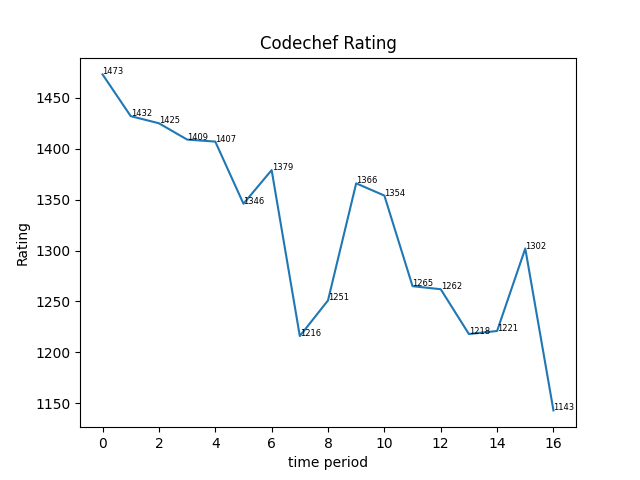
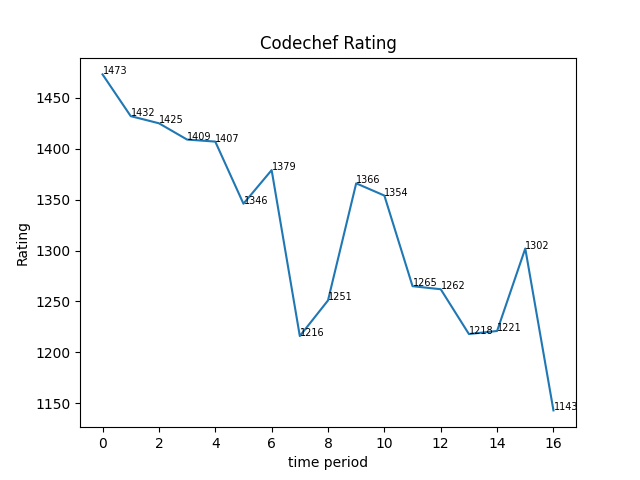
reminder done

diff --git a/RIC.py b/RIC.py
@@ -8,6 +8,81 @@ import asyncio
 import random
 import numpy as np
 import matplotlib.pyplot as plt
+from asyncio import sleep as s
+from datetime import datetime, time, timedelta, date
+channel_id = 861613962508369934
+
+
+def get_contest_date():
+    URL_codeforces = "https://kontests.net/api/v1/codeforces"
+    URL_codechef = "https://kontests.net/api/v1/code_chef"
+    URL_leetcode = "https://kontests.net/api/v1/leet_code"
+
+    # sending get request and saving the response as response object
+    request_codeforces = requests.get(url=URL_codeforces)
+    request_codechef = requests.get(url=URL_codechef)
+    request_leetcode = requests.get(url=URL_leetcode)
+
+    # extracting data in json format
+    data_codeforces = request_codeforces.json()
+    data_codechef = request_codechef.json()
+    data_leetcode = request_leetcode.json()
+    data_codechef.reverse()
+    data_leetcode.reverse()
+    date_codeforces = data_codeforces[0]['start_time'].split('T')
+    date_leetcode = data_leetcode[0]['start_time'].split('T')
+    date_codechef = data_codechef[0]['start_time'].split(" ")
+    return [[date_codeforces[0], date_codeforces[1][0:8:], data_codeforces[0], 1],
+            [date_leetcode[0], date_leetcode[1][0:8:], data_leetcode[0], 1],
+            [date_codechef[0], date_codechef[1], data_codechef[0], 0]]
+
+
+async def called_once_a_day(contest, flag):  # Fired every day
+    await client.wait_until_ready()  # Make sure your guild cache is ready so the channel can be found via get_channel
+    channel = client.get_channel(
+        channel_id)  # Note: It's more efficient to do bot.get_guild(guild_id).get_channel(channel_id) as there's less looping involved, but just get_channel still works fine
+    if flag == 1:
+        date = contest['start_time'].split('T')[0]
+        time = contest['start_time'].split('T')[1]
+        l = [contest['name'], str(
+            date.split('-')[2] + "/" + date.split('-')[1] + "/" + date.split('-')[0] + " at " + str(
+                int(time[0:2:1]) + 6) + ":00")]
+        await channel.send(embed=discord.Embed(title=f'**Upcomming contest**',
+                                               description=f':trophy:  **Name**: {l[0]}\n\n \t :clock8:  **Date**: {l[1]}\n\n\n'))
+
+    else:
+        date = contest['start_time'].split(' ')[0]
+        time = contest['start_time'].split(' ')[1]
+        l = [contest['name'], str(
+            date.split('-')[2] + "/" + date.split('-')[1] + "/" + date.split('-')[0] + " at " + str(
+                int(time[0:2:1]) + 6) + ":00")]
+        await channel.send(embed=discord.Embed(title=f'**Upcomming Contest Today**',
+                                               description=f':trophy:  **Name**: {l[0]}\n\n \t :clock8:  **Date**: {l[1]}\n\n\n'))
+
+
+async def background_task():
+    # now = datetime.utcnow()
+    for contest in get_contest_date():
+        if contest[0] == date.today():
+            if contest[3] == 1:
+                await called_once_a_day(contest[2], 1)
+            else:
+                await called_once_a_day(contest[2], 0)
+
+    # if now.time() > WHEN:  # Make sure loop doesn't start after {WHEN} as then it will send immediately the first time as negative seconds will make the sleep yield instantly
+    #     tomorrow = datetime.combine(now.date() + timedelta(days=1), time(0))
+    #     seconds = (tomorrow - now).total_seconds()  # Seconds until tomorrow (midnight)
+    #     await asyncio.sleep(seconds)  # Sleep until tomorrow and then the loop will start
+    # while True:
+    #     now = datetime.utcnow()  # You can do now() or a specific timezone if that matters, but I'll leave it with utcnow
+    #     target_time = datetime.combine(now.date(), WHEN)  # 6:00 PM today (In UTC)
+    #     seconds_until_target = (target_time - now).total_seconds()
+    #     await asyncio.sleep(seconds_until_target)  # Sleep until we hit the target time
+    #     await called_once_a_day()  # Call the helper function that sends the message
+    #     tomorrow = datetime.combine(now.date() + timedelta(days=1), time(0))
+    #     seconds = (tomorrow - now).total_seconds()  # Seconds until tomorrow (midnight)
+    #     await asyncio.sleep(seconds)  # Sleep until tomorrow and then the loop will start a new iteration
+
 
 client = commands.Bot(command_prefix='.')
 
@@ -16,6 +91,7 @@ client = commands.Bot(command_prefix='.')
 @client.event
 async def on_ready():
     print('We have logged in as {0.user}'.format(client))
+    # print(get_contest_date())
 
 
 # HELP COMMAND
@@ -25,7 +101,7 @@ async def on_ready():
 async def my_help(ctx):
     help_message = discord.Embed(
         title="**CPMC Discord Bot :robot:**",
-        description='\n :loudspeaker:** Commands: ** \n\n :trophy:  **.contests :** for upcomming contests \n\n :person_bouncing_ball:  **.cf <username> :** for codeforces info of handle\n\n:person_bouncing_ball:  **.lc <username> :** for leetcode info of handle \n\n:person_bouncing_ball:  **.cc <username> :** for codechef info of handle \n\n:person_bouncing_ball:  **.randQ <difficulty_level> :** for random lc question \n\n :person_bouncing_ball:  **.randtag <tag> :** for random cf ques \n\n**Thank you for using my services :smiley:**',
+        description='\n :loudspeaker:** Commands: ** \n\n :trophy:  **.contests :** for upcomming contests \n\n :person_bouncing_ball:  **.rating <platform> <username> :** for rating info of handle \n\n\t platform options: \n\n\t\tcf for codeforces \n\n\t\tcc for codechef \n\n\t\tlc for leetcode \n\n:person_bouncing_ball: **.graph <platform> <username>** \n\nplatform options: \n\n\t\tcf for codeforces \n\n\t\tcc for codechef\n\n:person_bouncing_ball:  **.rq <difficulty_level> :** for random lc question \n\n :person_bouncing_ball:  **.rt <tag> :** for random codeforces questions with tag \n\n**Thank you for using my services :smiley:**',
         color=0xFFA500
     )
     await ctx.reply(embed=help_message)
@@ -54,7 +130,7 @@ def destructure_codeforces_leetcode(contest):
     time = contest['start_time'].split('T')[1]
     return [contest['name'],
             str(date.split('-')[2] + "/" + date.split('-')[1] + "/" + date.split('-')[0] + " at " + str(
-                int(time[0:2:1]) + 6) + ":05")]
+                int(time[0:2:1]) + 6) + ":00")]
 
 
 def destructure_codechef(contest):
@@ -76,14 +152,14 @@ leetcode_display_list = list(
 leetcode_display_list.reverse()
 
 display_list = codeforces_display_list[0:2:] + \
-    codechef_display_list[0:2:] + leetcode_display_list[0:2:]
+               codechef_display_list[0:2:] + leetcode_display_list[0:2:]
 
 
 def display(display_list):
     dis = ''
     for contest in display_list:
         dis = dis + \
-            f':trophy:  **Name**: {contest[0]}\n\n \t :clock8:  **Date**: {contest[1]}\n\n\n'
+              f':trophy:  **Name**: {contest[0]}\n\n \t :clock8:  **Date**: {contest[1]}\n\n\n'
     dis += '**Thank you for using my services :smiley:**\n\n'
     message = discord.Embed(
         title='\n**Upcoming Contests:**\n\n',
@@ -98,72 +174,64 @@ async def contest(ctx):
     await ctx.reply(embed=display(display_list))
 
 
-# CF COMMAND FOR CODEFORCES
-# GET USERINFO
-# REPLY IN DM
-@client.command(name='cf')
-async def userInfo(ctx, name):
-    async with aiohttp.ClientSession() as session:
-        async with session.get('https://contest-details.herokuapp.com/api/codeforces/{}'.format(name)) as response:
-            data = await response.json()
-            # print(data)
-            if 'rating' in data:
-                rating = data['rating'] if 'rating' in data else '\t'
-                rank = data['rank'] if 'rank' in data else '\t'
-                maxrt = data['max rating'] if 'max rating' in data else '\t'
-                m = discord.Embed(
-                    title='this is your info for codeforces',
-                    description=f'**Request for** : \t{name}\n\n**Last Rating :** \t{rating}\n\n**Rank :** \t{rank}\n\n**Max Rating :** \t{maxrt}\n\n**Thank you for using my services :smiley:**\n\n',
-                    color=discord.Colour.red())
-                await ctx.message.author.send(embed=m)
-                await ctx.reply('**Info was successfully sent to you!!**')
-            else:
-                await ctx.reply('**400 Player Not found or contests not given**')
+@client.command(name='rating')
+async def rating(ctx, platform, name):
+    if platform == 'cf':
+        async with aiohttp.ClientSession() as session:
+            async with session.get('https://contest-details.herokuapp.com/api/codeforces/{}'.format(name)) as response:
+                data = await response.json()
 
-
-# LC COMMAND FOR LEETCODE
-@client.command(name='lc')
-async def userInfo(ctx, name):
-    async with aiohttp.ClientSession() as session:
-        async with session.get('https://competitive-coding-api.herokuapp.com/api/leetcode/{}'.format(name)) as response:
-            data = await response.json()
-            if 'ranking' in data:
-                ranking = data['ranking'] if 'ranking' in data else '\t'
-                problems = data['total_problems_solved'] if 'total_problems_solved' in data else '\t'
-                points = data['contribution_points'] if 'contribution_points' in data else '\t'
-                rep = data['reputation'] if 'reputation' in data else '\t'
-                m = discord.Embed(
-                    title='this is your info for leetcode',
-                    description=f'**Request for** : \t{name}\n\n**Rank :** \t{ranking}\n\n**Problems Solved :** \t{problems}\n\n**Total Points :** \t{points}\n\n**Reputation :** \t{rep}\n\n**Thank you for using my services :smiley:**\n\n',
-                    color=0xffffff)
-                await ctx.message.author.send(embed=m)
-                await ctx.reply('**Info was successfully sent to you!!**')
-            else:
-                await ctx.reply('**400 Player Not found or contests not given**')
-
-
-# CC COMMAND FOR CODECHEF
-@client.command(name='cc')
-async def userInfo(ctx, name):
-    async with aiohttp.ClientSession() as session:
-        async with session.get('https://contest-details.herokuapp.com/api/codechef/{}'.format(name)) as response:
-            data = await response.json()
-            print(data)
-            if 'div' in data:
-                ranking = data['country rank'] if 'country rank' in data else '\t'
-                problems = data['problem solved'] if 'problem solved' in data else '\t'
-                div = data['div'] if 'div' in data else '\t'
-                stars = data['stars'] if 'stars' in data else '\t'
-                maxRt = data['max rating'] if 'max rating' in data else '\t'
-                current = data['rating'] if 'rating' in data else '\t'
-                m = discord.Embed(
-                    title='this is your info for codechef',
-                    description=f'**Request for** : \t{name}\n\n**Rank :** \t{ranking}\n\n**Div :** \t{div}\n\n**Stars :** \t{stars}\n\n**Rating :** \t{current}\n\n**Max Rating :** \t{maxRt}\n\n**Problems Solved :** \t{problems}\n\n**Thank you for using my services :smiley:**\n\n',
-                    color=discord.Colour.green())
-                await ctx.message.author.send(embed=m)
-                await ctx.reply('**Info was successfully sent to you!!**')
-            else:
-                await ctx.reply('**400 Player Not found or contests not given**')
+                if 'rating' in data:
+                    rating = data['rating'] if 'rating' in data else '\t'
+                    rank = data['rank'] if 'rank' in data else '\t'
+                    maxrt = data['max rating'] if 'max rating' in data else '\t'
+                    m = discord.Embed(
+                        title='this is your info for codeforces',
+                        description=f'**Request for** : \t{name}\n\n**Last Rating :** \t{rating}\n\n**Rank :** \t{rank}\n\n**Max Rating :** \t{maxrt}\n\n**Thank you for using my services :smiley:**\n\n',
+                        color=discord.Colour.red())
+                    await ctx.message.author.send(embed=m)
+                    await ctx.reply('**Info was successfully sent to you!!**')
+                else:
+                    await ctx.reply('**400 Player Not found or contests not given**')
+    elif platform == 'cc':
+        async with aiohttp.ClientSession() as session:
+            async with session.get('https://contest-details.herokuapp.com/api/codechef/{}'.format(name)) as response:
+                data = await response.json()
+                if 'div' in data:
+                    ranking = data['country rank'] if 'country rank' in data else '\t'
+                    problems = data['problem solved'] if 'problem solved' in data else '\t'
+                    div = data['div'] if 'div' in data else '\t'
+                    stars = data['stars'] if 'stars' in data else '\t'
+                    maxRt = data['max rating'] if 'max rating' in data else '\t'
+                    current = data['rating'] if 'rating' in data else '\t'
+                    m = discord.Embed(
+                        title='this is your info for codechef',
+                        description=f'**Request for** : \t{name}\n\n**Rank :** \t{ranking}\n\n**Div :** \t{div}\n\n**Stars :** \t{stars}\n\n**Rating :** \t{current}\n\n**Max Rating :** \t{maxRt}\n\n**Problems Solved :** \t{problems}\n\n**Thank you for using my services :smiley:**\n\n',
+                        color=discord.Colour.green())
+                    await ctx.message.author.send(embed=m)
+                    await ctx.reply('**Info was successfully sent to you!!**')
+                else:
+                    await ctx.reply('**400 Player Not found or contests not given**')
+    elif platform == 'lc':
+        async with aiohttp.ClientSession() as session:
+            async with session.get(
+                    'https://competitive-coding-api.herokuapp.com/api/leetcode/{}'.format(name)) as response:
+                data = await response.json()
+                if 'ranking' in data:
+                    ranking = data['ranking'] if 'ranking' in data else '\t'
+                    problems = data['total_problems_solved'] if 'total_problems_solved' in data else '\t'
+                    points = data['contribution_points'] if 'contribution_points' in data else '\t'
+                    rep = data['reputation'] if 'reputation' in data else '\t'
+                    m = discord.Embed(
+                        title='this is your info for leetcode',
+                        description=f'**Request for** : \t{name}\n\n**Rank :** \t{ranking}\n\n**Problems Solved :** \t{problems}\n\n**Total Points :** \t{points}\n\n**Reputation :** \t{rep}\n\n**Thank you for using my services :smiley:**\n\n',
+                        color=0xffffff)
+                    await ctx.message.author.send(embed=m)
+                    await ctx.reply('**Info was successfully sent to you!!**')
+                else:
+                    await ctx.reply('**400 Player Not found or contests not given**')
+    else:
+        await ctx.reply('**Enter valid platform**')
 
 
 # RANDOM QUESTION
@@ -210,13 +278,21 @@ async def rand_question_tag(ctx, tag):
     await ctx.reply(embed=get_question_tag(tag))
 
 
-font = {'size': 6}
+font = {'size': 7}
 
 
 @client.command(name='graph')
-async def graph_disp(ctx, user):
+async def graph_disp(ctx, platform, user):
+    _platform = ''
+    if platform == 'cc':
+        _platform = 'codechef'
+    elif platform == 'cf':
+        _platform = 'codeforces'
+    else:
+        await ctx.reply('**Enter valid platform**')
+        return
     async with aiohttp.ClientSession() as session:
-        async with session.get(f'https://contest-details.herokuapp.com/api/codechef/{user}') as response:
+        async with session.get(f'https://contest-details.herokuapp.com/api/{_platform}/{user}') as response:
             data = await response.json()
             if 'contests' in data:
                 x = np.arange(0, len(data['contests']))
@@ -236,5 +312,5 @@ async def graph_disp(ctx, user):
                 await ctx.reply('**400 Player Not found or contests not given**')
 
 
+client.loop.create_task(background_task())
 client.run(os.environ['DISCORD_TOKEN'])
-
